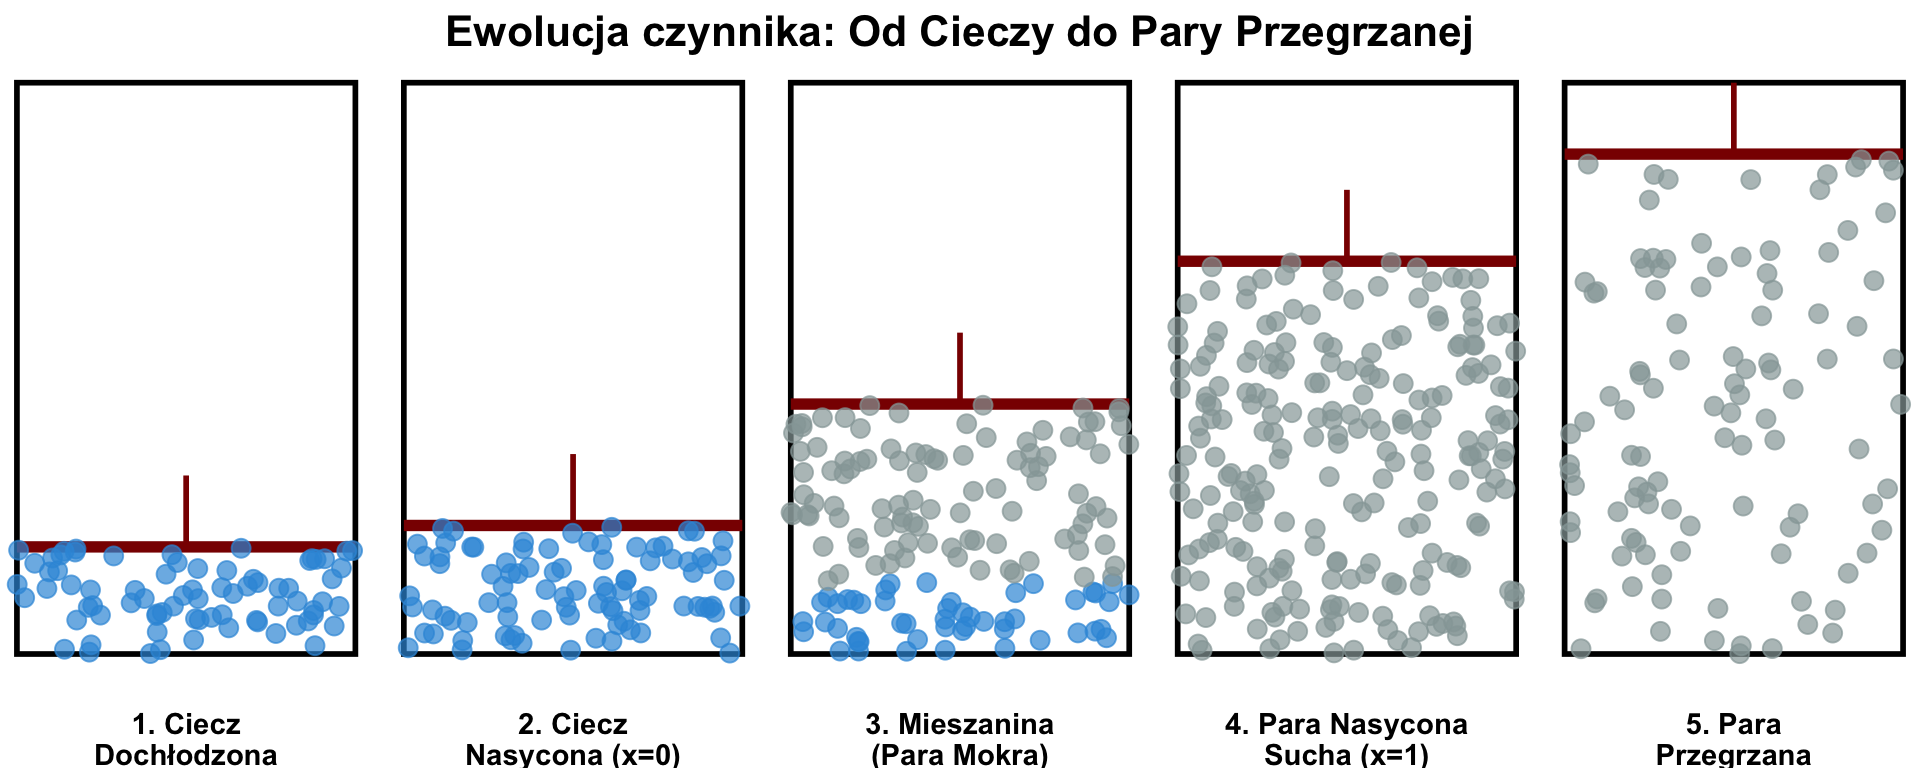
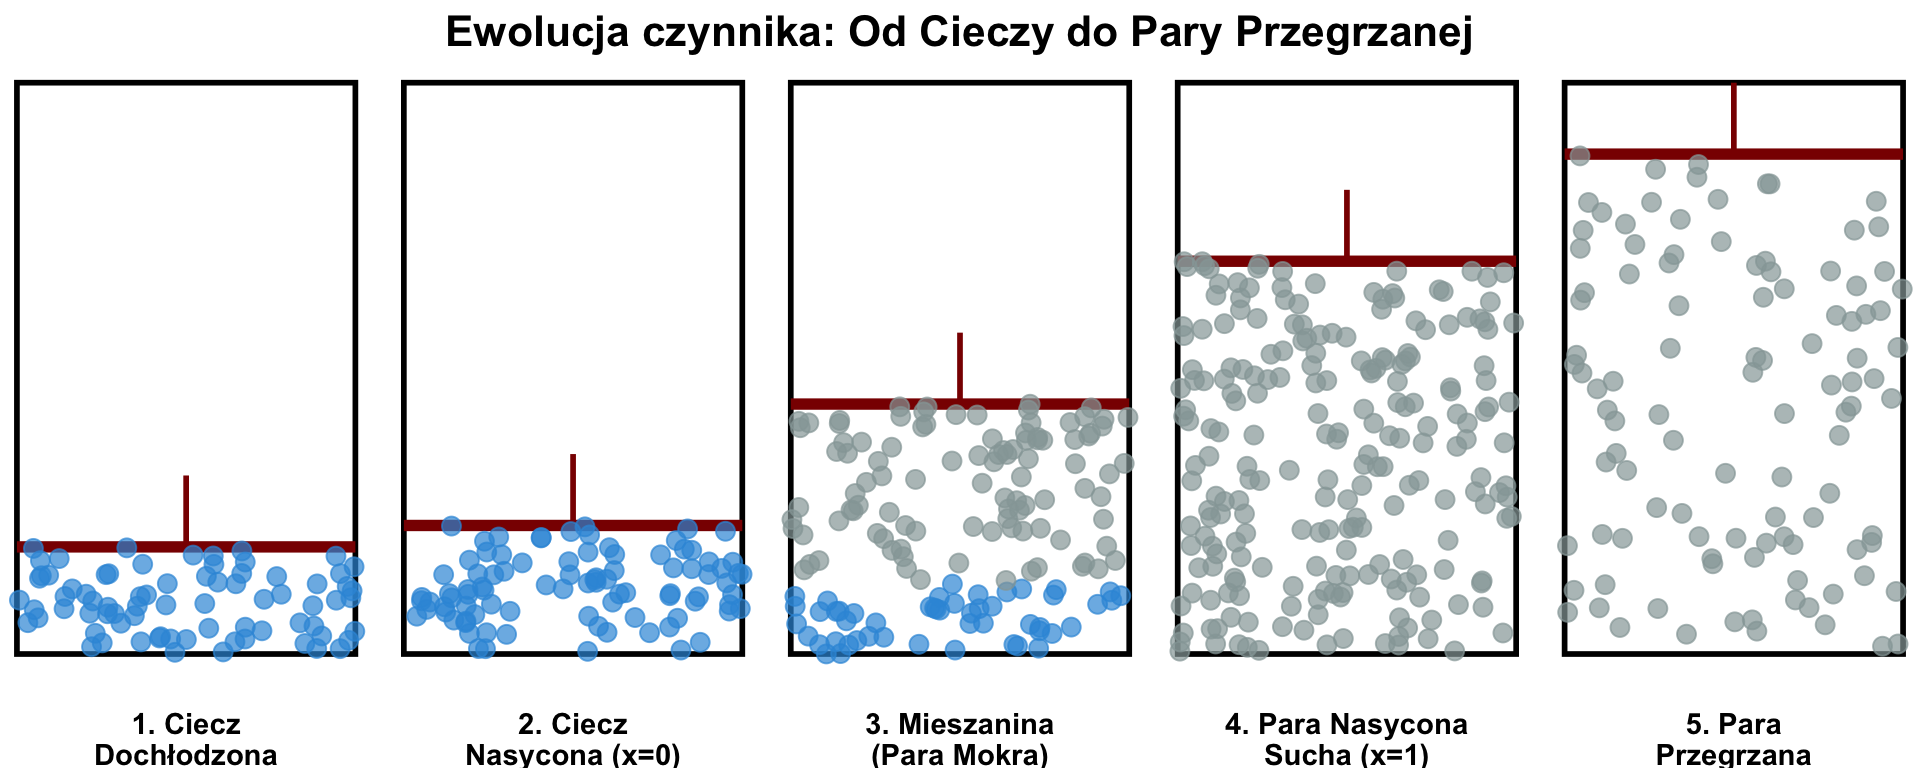
Aktualizacja materiałów dydaktycznych: wykłady, ćwiczenia i pliki HTML

Changed region(s): [[0.0, 0.1875, 1.0, 0.875], [0.8125, 0.1875, 0.8438, 0.2188]]

diff --git a/Wyklady/06_II_Zasada_1.html b/Wyklady/06_II_Zasada_1.html
@@ -244,7 +244,7 @@
 <li><strong>Źródło dolne (<span class="math inline">\(T_L\)</span>):</strong> Rzeka, Atmosfera, Grunt. Odbiera ciepło odpadowe <span class="math inline">\(Q_L\)</span> (Low).</li>
 </ol>
 <div class="fragment" style="border: 2px solid #e60000; padding: 20px; border-radius: 10px; background-color: #fff0f0;">
-<p>Podstawą II Zasady jest nieodwracalność samorzutnych procesów przyrody. Zachodzą one od stanu wyższym potencjal do stanów opotencjale niższym.</p>
+<p>Podstawą II Zasady jest nieodwracalność samorzutnych procesów przyrody. Zachodzą one od stanu o wyższym potencjale do stanów o potencjale niższym.</p>
 </div>
 </div><div class="column" style="width:40%;">
 <div class="cell">
@@ -394,7 +394,7 @@
 <p>Złamanie jednego, oznacza złamanie też drugiego.</p>
 </div>
 <ul>
-<li class="fragment">Gdyby silnik byłw w 100% sprawny (łamie K-P), możnaby nim zasilić pompę ciepła, co w rezultacie pompowałoby ciepło z zimnego do ciepłego bez udziału pracy z zewnątrz (łamie Clausiusa).</li>
+<li class="fragment">Gdyby silnik był w 100% sprawny (łamie K-P), możnaby nim zasilić pompę ciepła, co w rezultacie pompowałoby ciepło z zimnego do ciepłego bez udziału pracy z zewnątrz (łamie Clausiusa).</li>
 </ul>
 </section>
 <section id="perpetuum-mobile-ii-rodzaju" class="slide level2">
@@ -483,7 +483,7 @@
 <p>Co sprawia, że procesu nie da się cofnąć bez strat?</p>
 </div>
 <ol type="1">
-<li class="fragment"><strong>Tarcie</strong> (Solidne i lepkość płynów) - zamiana pracy na ciepło jest jednostronna.</li>
+<li class="fragment"><strong>Tarcie</strong> (Ciał satałych i lepkość płynów) - zamiana pracy na ciepło jest jednostronna.</li>
 <li class="fragment"><strong>Nierównowaga sił</strong> (Gwałtowne rozprężanie) - ciśnienie wewnętrzne jest znacznie wyższe niż zewnętrzne.</li>
 <li class="fragment"><strong>Wymiana ciepła przy skończonym <span class="math inline">\(\Delta T\)</span></strong> - im większa różnica temperatur, tym większa nieodwracalność.</li>
 <li class="fragment"><strong>Reakcje chemiczne</strong> - spalanie jest wysoce nieodwracalne (nie da się odzyskać paliwa ze spalin przez ogrzanie).</li>

diff --git a/Wyklady/05_Wlasciwosci_Substancji_II.html b/Wyklady/05_Wlasciwosci_Substancji_II.html
@@ -453,7 +453,6 @@
 <section id="mollier-w-praktyce" class="slide level2">
 <h2><i class="bi bi-bookmark"></i> Mollier w Praktyce</h2>
 <p>Turbina pobiera parę: <span class="math inline">\(p_1 = 100\)</span> bar, <span class="math inline">\(T_1 = 500^\circ C\)</span>. Rozpręża do <span class="math inline">\(p_2 = 0.1\)</span> bar.</p>
-<p>Turbina pobiera parę: <span class="math inline">\(p_1 = 100\)</span> bar, <span class="math inline">\(T_1 = 500^\circ C\)</span>. Rozpręża do <span class="math inline">\(p_2 = 0.1\)</span> bar.</p>
 <div style="width: 100%; margin: 0 auto;">
 <div class="cell" data-layout-align="default">
 <div class="cell-output-display">